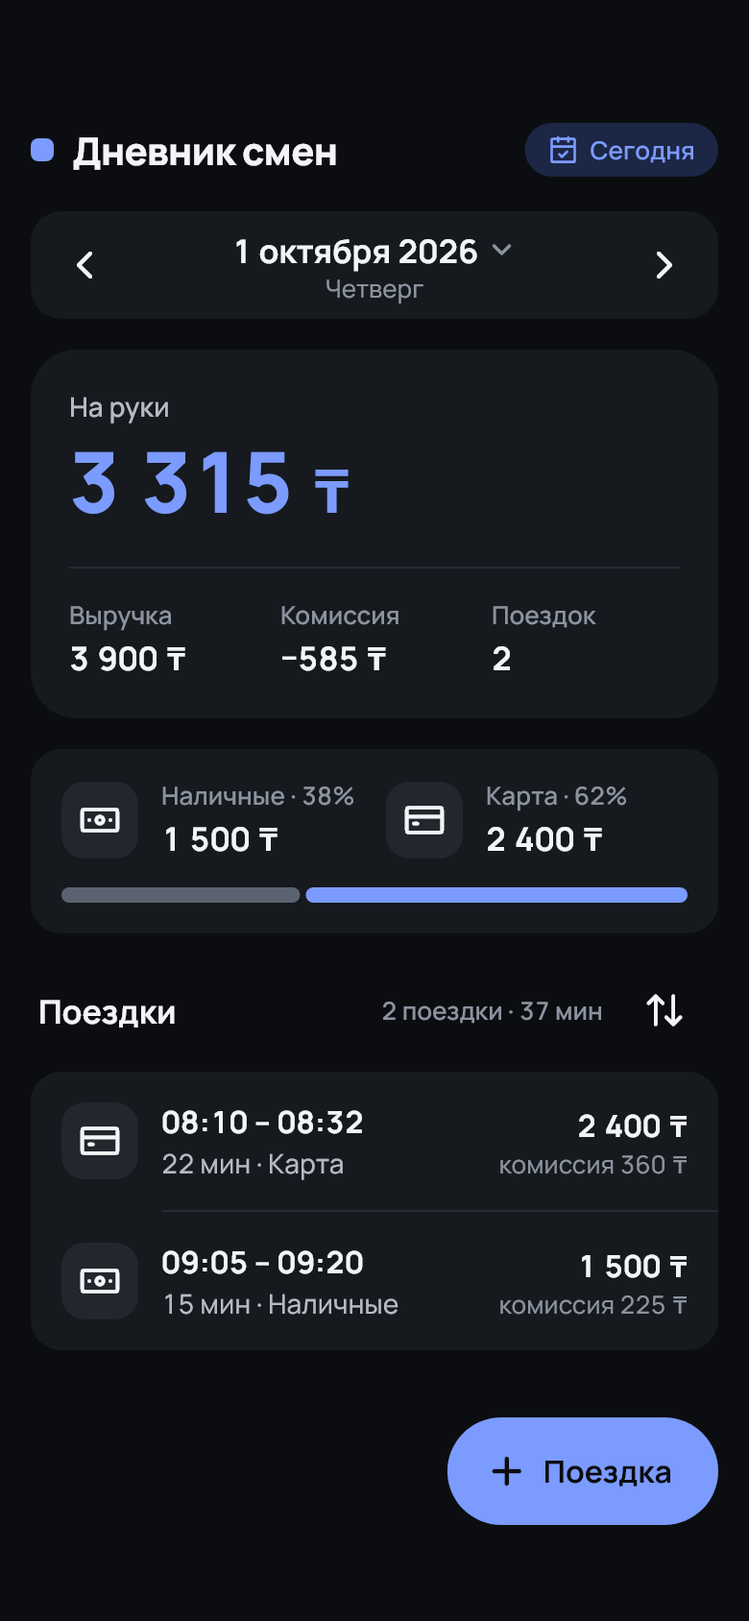
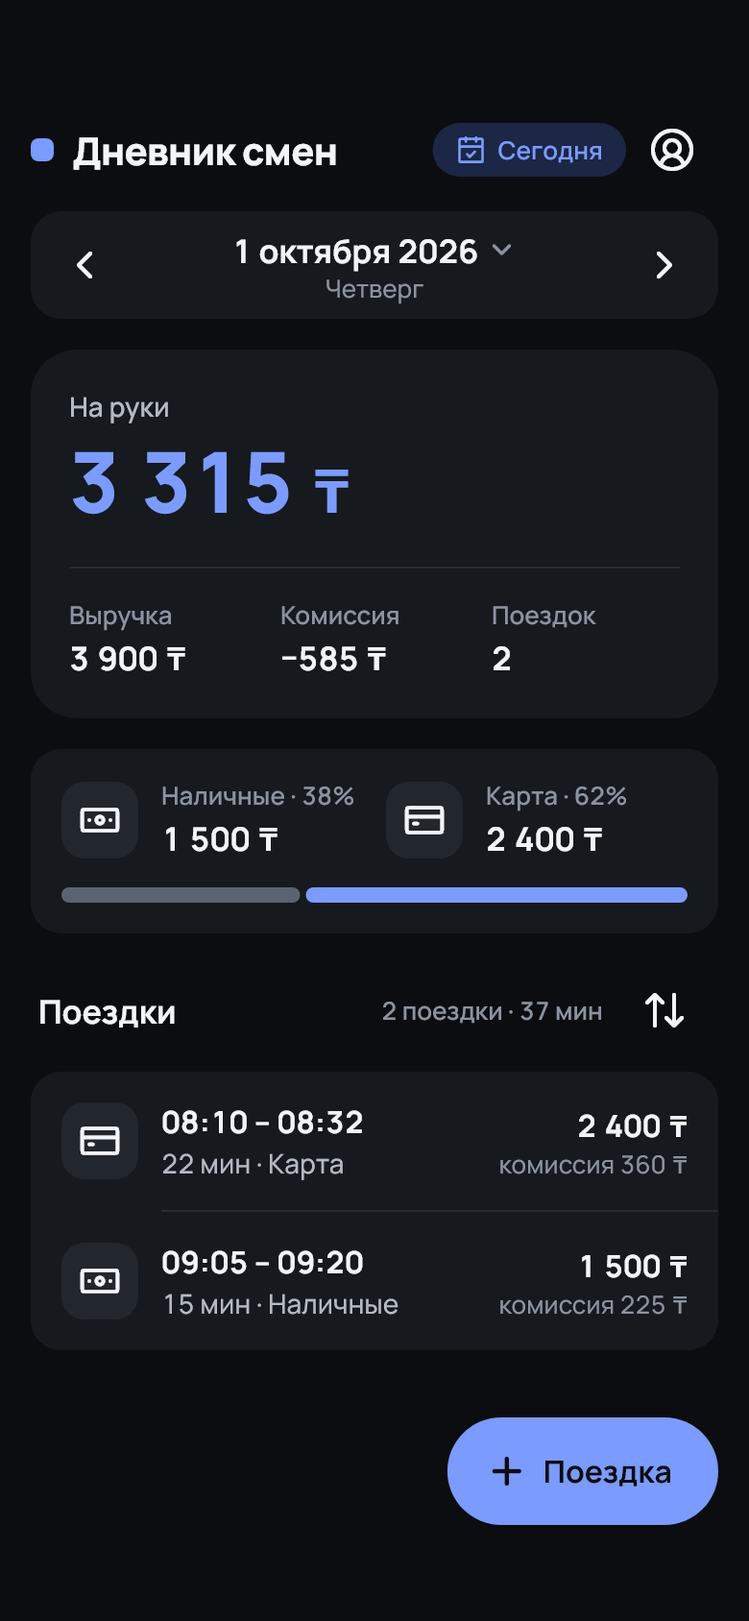
docs: v2.0 — README for accounts, languages, withdrawals and admin; stage 6 deploy check
Prod runs with AUTH_REQUIRED=true since 2026-10-12. DEPLOY_CHECK records the
backup, the deploy, the switch and every deployed check; PROD_AUDIT closes
F4, F6 and F8.

Changed region(s): [[0.5846, 0.0616, 0.9538, 0.1232]]

diff --git a/README.md b/README.md
@@ -2,16 +2,24 @@
 
 Мобильное приложение для водителя такси. Водитель записывает поездки: время, сумму, комиссию парка, способ оплаты. Приложение показывает итоги дня: сколько получено на руки, выручку, комиссию, число поездок, долю наличных и карты.
 
+С версии 2.0:
+- **вход по логину и паролю** и две роли: водитель и администратор;
+- **вывод денег:** водитель видит, сколько парк ему должен, и создаёт заявку на вывод;
+- **админка:** поездки всех водителей, заявки на вывод («Выплатить» / «Отклонить»), водители и их балансы;
+- **два языка:** русский и казахский, переключаются на экране входа и в меню.
+
 Состав репозитория:
 - `apps/mobile` — Flutter-приложение;
 - `packages/design_kit` — дизайн-кит;
 - `backend` — API на FastAPI с PostgreSQL, развёрнут на Railway.
 
-| День (светлая тема) | День (тёмная тема) | Новая поездка |
-|---|---|---|
-| <img src="docs/screenshots/day_light.png" width="200"> | <img src="docs/screenshots/day_dark.png" width="200"> | <img src="docs/screenshots/add_trip.png" width="200"> |
+| Вход | День | Вывод средств | Админка |
+|---|---|---|---|
+| <img src="docs/screenshots/login_ru.png" width="180"> | <img src="docs/screenshots/day_light.png" width="180"> | <img src="docs/screenshots/withdraw_ru.png" width="180"> | <img src="docs/screenshots/admin_trips_all_ru.png" width="180"> |
 
-**Скачать APK для Android:** [driver-diary.apk](https://github.com/alisherizmukhan/arqa-demo/releases/latest/download/driver-diary.apk) (все релизы — на странице [Releases](https://github.com/alisherizmukhan/arqa-demo/releases)). Приложение работает с развёрнутым API, ничего настраивать не нужно.
+**Скачать APK для Android:** [driver-diary.apk (v2.0.0)](https://github.com/alisherizmukhan/arqa-demo/releases/download/v2.0.0/driver-diary.apk) (все релизы — на странице [Releases](https://github.com/alisherizmukhan/arqa-demo/releases)). Приложение работает с развёрнутым API, ничего настраивать не нужно. Войдите демо-аккаунтом: `user_1` / `password_1` (водитель) или `admin` / `admin` (администратор), полный список — в разделе «Демо-аккаунты».
+
+> **Старые сборки больше не работают с сервером.** С версии 2.0 API требует вход, а APK v0.1.0 и код по тегу `v1.0` (сдача до этапа аккаунтов) входить не умеют: их запросы получают 401. Ставьте v2.0.0.
 
 ### Демо-видео
 
@@ -29,7 +37,7 @@ https://github.com/user-attachments/assets/44a51387-0f43-486c-87e7-9e07c062bf56
 
 ## Требования задания
 
-Эталонный день — **2026-10-01**: 2 поездки, выручка 3 900 ₸, комиссия 585 ₸, на руки 3 315 ₸, наличные 1 500 ₸, карта 2 400 ₸. Эти числа проверяются тестами бэкенда и клиента, а также на развёрнутом API.
+Эталонный день — **2026-10-01**: 2 поездки, выручка 3 900 ₸, комиссия 585 ₸, на руки 3 315 ₸, наличные 1 500 ₸, карта 2 400 ₸. Эти числа проверяются тестами бэкенда и клиента, а также на развёрнутом API. С аккаунтами это день `user_1`; у `user_2` в тот же день 4 800 / 720 / 4 080 ₸, у администратора по всем водителям — 8 700 / 1 305 / 7 395 ₸ (проверка развёрнутого API — в [`docs/DEPLOY_CHECK.md`](docs/DEPLOY_CHECK.md)).
 
 | Требование | Статус | Где реализовано | Какой тест доказывает |
 |---|---|---|---|
@@ -37,7 +45,10 @@ https://github.com/user-attachments/assets/44a51387-0f43-486c-87e7-9e07c062bf56
 | Клиент: итоги дня, список поездок, переключение дней | ✅ | `apps/mobile/lib/features/trips/presentation/screens/day_screen.dart`, `apps/mobile/lib/features/trips/domain/entities/daily_summary.dart`, `apps/mobile/lib/features/trips/presentation/providers/trips_providers.dart` | `apps/mobile/test/features/trips/domain/domain_test.dart` («reference case 2026-10-01»); `apps/mobile/test/features/trips/presentation/screens_test.dart` («renders the reference day»); `apps/mobile/test/features/trips/presentation/providers_test.dart` («each day is fetched once…») |
 | Создание поездки с валидацией (сумма > 0, конец позже начала) | ✅ | `apps/mobile/lib/features/trips/presentation/screens/add_trip_screen.dart`, `apps/mobile/lib/features/trips/domain/entities/trip_rules.dart`, `backend/app/domain/trip.py` | `apps/mobile/test/features/trips/presentation/trip_form_test.dart`; `backend/tests/unit/domain/test_trip.py::test_invalid_trip_is_rejected`; `backend/tests/integration/test_api_validation.py` |
 | Нет дублей при повторной отправке | ✅ | `backend/app/infrastructure/repository.py` (`INSERT … ON CONFLICT (id) DO NOTHING`), `backend/app/application/use_cases.py`; в клиенте `AddTripController` в `trips_providers.dart` и повторы в `add_trip_screen.dart` | `backend/tests/integration/test_idempotency.py` (повтор → 200, гонка параллельных POST → одна строка, другие данные → 409); `providers_test.dart` («retrying the same trip after a network error reuses its id»); `apps/mobile/test/features/trips/presentation/form_behaviour_test.dart` («resent with the same id») |
-| Тесты на итоги и на дубли | ✅ | `backend/tests/`, `apps/mobile/test/`, CI в `.github/workflows/ci.yml` | бэкенд: 194 теста; приложение: 220; дизайн-кит: 177. Все проходят в CI |
+| Аккаунты, роли, сессии | ✅ | `backend/app/application/auth.py`, `access.py`; в приложении `features/auth` | `backend/tests/integration/test_auth_api.py`, `test_scoping_api.py`; `apps/mobile/test/features/accounts/` |
+| Вывод денег без двойного списания | ✅ | `backend/app/application/withdrawals.py` (блокировка строки водителя), `features/withdrawals` в приложении | `backend/tests/integration/test_withdrawals_api.py` (параллельные заявки); повторы с тем же `id` — `accounts_behaviour_test.dart` |
+| Русский и казахский | ✅ | `apps/mobile/lib/l10n/app_ru.arb`, `app_kk.arb`, [`docs/L10N.md`](docs/L10N.md) | `test/core/l10n_format_test.dart`; матрица вёрстки на обоих языках; CI запрещает кириллицу в коде вне локализаций |
+| Тесты на итоги и на дубли | ✅ | `backend/tests/`, `apps/mobile/test/`, CI в `.github/workflows/ci.yml` | бэкенд: 372 теста; приложение: 531; дизайн-кит: 183 и витрина 150. Все проходят в CI |
 | README, деплой, скриншоты | ✅ | `README.md`, `backend/Dockerfile`, `.railway/railway.ts`, `docs/screenshots/` | `GET /health` на Railway отвечает 200; скриншоты рендерит `apps/mobile/test/screens/screenshots_test.dart` |
 
 ---
@@ -70,7 +81,7 @@ uv run python -m app             # http://127.0.0.1:8000/docs; при старт
 | `SEED_ADMIN_PASSWORD`, `SEED_USER1_PASSWORD`, `SEED_USER2_PASSWORD` | Пароли демо-аккаунтов (см. ниже) |
 | `CLIENT_IP_HEADER` | Заголовок, который ставит сам прокси перед API и перезаписывает присланное клиентом значение. На Railway это `x-real-ip`. По нему определяется IP клиента для лимита входов |
 | `TRUSTED_PROXY_HOPS` | Для прокси, которые дописывают клиента в `X-Forwarded-For`: сколько последних записей им принадлежит. Локально оба не заданы — берётся адрес соединения |
-| `AUTH_REQUIRED` | `true` (по умолчанию): нужен токен. `false`: запрос без токена работает от имени `user_1`, присланный токен всё равно проверяется. На проде сейчас `false`, пока приложение не умеет входить |
+| `AUTH_REQUIRED` | `true` (по умолчанию): нужен токен. `false`: запрос без токена работает от имени `user_1`, присланный токен всё равно проверяется (переходный режим, пока приложение не умело входить). На проде — `true` с 2026-10-12 |
 | `CORS_ORIGINS` | Разрешённые источники (по умолчанию `["*"]`) |
 
 #### Демо-аккаунты
@@ -107,7 +118,7 @@ $env:_ = "$env:APPDATA\npm\node_modules\@railway\cli\bin\railway.exe"; railway c
 
 ### Мобильное приложение
 
-Самый быстрый способ — установить [APK](https://github.com/alisherizmukhan/arqa-demo/releases/latest/download/driver-diary.apk) (см. ниже). Чтобы собрать из исходников:
+Самый быстрый способ — установить [APK](https://github.com/alisherizmukhan/arqa-demo/releases/download/v2.0.0/driver-diary.apk) (см. ниже). Чтобы собрать из исходников:
 
 ```bash
 flutter pub get          # из корня репозитория (pub workspace)
@@ -122,9 +133,9 @@ flutter run              # на первом найденном устройст
 
 **Установить готовый APK на телефон:**
 
-1. Скачайте [driver-diary.apk](https://github.com/alisherizmukhan/arqa-demo/releases/latest/download/driver-diary.apk) на телефон.
+1. Скачайте [driver-diary.apk](https://github.com/alisherizmukhan/arqa-demo/releases/download/v2.0.0/driver-diary.apk) на телефон.
 2. Откройте файл. Android попросит разрешить установку из этого источника (браузера или «Файлов») — разрешите.
-3. Нажмите «Установить», затем «Открыть». На экране появится «Дневник смен» с поездками за сегодня.
+3. Нажмите «Установить», затем «Открыть». Появится экран входа: введите `user_1` / `password_1`, и откроется день с поездками. Язык переключается кнопками «Русский» / «Қазақша» вверху.
 
 APK подписан отладочным ключом, поэтому Google Play Защита может показать предупреждение. Нажмите «Всё равно установить».
 
@@ -202,9 +213,11 @@ flutter analyze
 (cd packages/design_kit/example && flutter test)
 (cd apps/mobile && flutter test)
 
-# Контрактные тесты клиента против запущенного бэкенда
-(cd apps/mobile && LIVE_API_URL=http://127.0.0.1:8000 flutter test test/live)
+# Контрактные тесты клиента против запущенного бэкенда (с AUTH_REQUIRED=true — с логином)
+(cd apps/mobile && LIVE_API_URL=http://127.0.0.1:8000 LIVE_LOGIN=user_1 LIVE_PASSWORD=password_1 flutter test test/live)
 ```
+
+Перед пушем в `main` все шаги CI (включая проверки `grep`) запускаются одной командой: `tool/ci_local.sh`.
 
 ### Голдены: локально и в CI
 
@@ -234,46 +247,52 @@ tool/update_ci_goldens.sh packages/design_kit apps/mobile
 - API: https://api-production-6e8b.up.railway.app
 - Swagger UI: [`/docs`](https://api-production-6e8b.up.railway.app/docs)
 
+Без токена работают только `/health` и `/auth/login`, остальное отвечает 401.
+
 ```bash
 API=https://api-production-6e8b.up.railway.app
 
 curl $API/health
 # {"status":"ok","database":"ok"}
 
-curl "$API/summary?date=2026-10-01&tz=%2B05:00"
+TOKEN=$(curl -s -X POST $API/auth/login -H 'Content-Type: application/json' \
+  -d '{"login":"user_1","password":"password_1"}' | python -c "import json,sys;print(json.load(sys.stdin)['token'])")
+AUTH="Authorization: Bearer $TOKEN"
+
+curl -H "$AUTH" "$API/summary?date=2026-10-01&tz=%2B05:00"
 # {"date":"2026-10-01","tz":"+05:00","trips_count":2,"revenue":3900,"commission":585,"net":3315,"cash":1500,"card":2400}
 
-curl "$API/trips?date=2026-10-01&tz=%2B05:00"
-# {"date":"2026-10-01","tz":"+05:00","trips":[{"id":"t1",...},{"id":"t2",...}]}
+curl -H "$AUTH" "$API/trips?date=2026-10-01&tz=%2B05:00"
+# {"date":"2026-10-01","tz":"+05:00","trips":[{"id":"t1","driver_id":"…",...},{"id":"t2",...}]}
 ```
 
 В `tz` знак `+` кодируется как `%2B`. Без кодирования сервер тоже поймёт `+05:00`.
 
-Создание поездки. `id` — ключ идемпотентности, его генерирует клиент:
+Создание поездки (от имени водителя, с тем же `$AUTH`). `id` — ключ идемпотентности, его генерирует клиент. Это пишет в общий демо-API: для опытов лучше локальный бэкенд.
 
 ```bash
 TRIP='{"id":"readme-demo-1","start":"2026-01-15T10:00:00+05:00","end":"2026-01-15T10:25:00+05:00","amount":2500,"payment":"card","commission":375}'
 
 # Новая поездка -> 201
-curl -i -X POST $API/trips -H 'Content-Type: application/json' -d "$TRIP"
+curl -i -X POST $API/trips -H "$AUTH" -H 'Content-Type: application/json' -d "$TRIP"
 
 # Тот же запрос ещё раз -> 200, возвращается сохранённая поездка, дубля нет
-curl -i -X POST $API/trips -H 'Content-Type: application/json' -d "$TRIP"
+curl -i -X POST $API/trips -H "$AUTH" -H 'Content-Type: application/json' -d "$TRIP"
 
 # Тот же id, другая сумма -> 409
-curl -i -X POST $API/trips -H 'Content-Type: application/json' \
+curl -i -X POST $API/trips -H "$AUTH" -H 'Content-Type: application/json' \
   -d '{"id":"readme-demo-1","start":"2026-01-15T10:00:00+05:00","end":"2026-01-15T10:25:00+05:00","amount":3000,"payment":"card","commission":375}'
 # {"error":{"code":"trip_conflict","message":"trip 'readme-demo-1' already exists with a different payload","field":"id"}}
 
 # Невалидные данные -> 422
-curl -i -X POST $API/trips -H 'Content-Type: application/json' \
+curl -i -X POST $API/trips -H "$AUTH" -H 'Content-Type: application/json' \
   -d '{"id":"readme-demo-2","start":"2026-01-15T11:00:00+05:00","end":"2026-01-15T11:20:00+05:00","amount":0,"payment":"cash","commission":0}'
 # {"error":{"code":"invalid_amount","message":"amount must be a positive integer","field":"amount"}}
 ```
 
 Если `readme-demo-1` уже кто-то создал, первый запрос вернёт 200, а не 201. Для проверки 201 возьмите новый `id`.
 
-Все ошибки имеют один формат: `{"error": {"code", "message", "field"}}`. Клиент показывает свой русский текст по `code`, а не `message` сервера.
+Все ошибки имеют один формат: `{"error": {"code", "message", "field"}}`. Клиент показывает свой текст на выбранном языке по `code`, а не `message` сервера.
 
 ---
 
@@ -311,9 +330,23 @@ curl -s -X POST $API/auth/logout -H "Authorization: Bearer $TOKEN" -o /dev/null 
 
 Токен не истекает: сессия заканчивается при выходе или когда администратор её завершает. В базе хранится только sha256 от токена.
 
+В приложении: без сохранённого входа открывается экран входа. Водитель попадает на экран дня, администратор — в админку. Сессия заканчивается только выходом или когда администратор её сбрасывает; при любом ответе 401 приложение возвращается ко входу с сообщением «Сессия завершена. Войдите снова.». Токен хранится в защищённом хранилище (Keychain / Keystore) и не пишется в логи.
+
+## Язык
+
+- Русский и казахский. Переключатель «Русский» / «Қазақша» — на экране входа (справа вверху) и в меню («Язык»). Язык меняется сразу, без перезапуска, и запоминается.
+- Пока язык не выбран, берётся язык телефона, если это русский или казахский, иначе русский.
+- Даты — в формате выбранного языка: «1 октября 2026» / «2026 ж. 1 қазан»; формы множественного числа по правилам языка. Деньги одинаковые: `3 315 ₸`.
+- Казахские тексты — машинный перевод, все они перечислены в [`docs/L10N.md`](docs/L10N.md) с пометкой «нужна проверка носителем».
+- Имена водителей и причины отказа — данные с сервера, они не переводятся.
+
 ## Вывод денег
 
-Доступно к выводу = сумма оплат картой − комиссия по всем поездкам − выводы в статусе «в обработке» или «выплачено». Наличные остаются у водителя, поэтому комиссия за них тоже списывается с безнала. Сумма может быть нулевой или отрицательной.
+**Доступно к выводу = Σ оплат картой − Σ комиссий по всем поездкам − Σ выводов «в обработке» и «выплачено».**
+
+Деньги за поездки по карте получает парк, наличные остаются у водителя. Комиссия парка начисляется со всех поездок, поэтому комиссия за наличные поездки тоже списывается с безнала. Сумма может быть нулевой или отрицательной — тогда выводить нечего. Отклонённая заявка деньги возвращает.
+
+В приложении: «Меню» → «Вывод средств». Экран показывает баланс по формуле выше, поле суммы (кнопка «Всё» подставляет всю доступную сумму) и историю заявок со статусами «В обработке», «Выплачено», «Отклонено» (с причиной). Заявка получает `id` в момент нажатия «Вывести». При обрыве связи она повторяется с тем же `id` (через 2, 4, 8 и 30 с и по кнопке «Повторить»), поэтому деньги не уйдут дважды. Если изменить сумму, следующая отправка получит новый `id`.
 
 ```bash
 curl -s "$API/balance" -H "Authorization: Bearer $TOKEN"
@@ -335,6 +368,14 @@ curl -s -X POST $API/withdrawals -H "Authorization: Bearer $TOKEN" \
 
 Администратор: `POST /admin/withdrawals/{id}/approve` (выплачено) и `POST /admin/withdrawals/{id}/reject` с `{"reason": "…"}` (отклонено, деньги снова доступны). Повтор того же решения возвращает текущее состояние, другое решение — 409 `withdrawal_already_decided`.
 
+## Админка
+
+Администратор после входа попадает в «Админку» с тремя вкладками:
+
+- **Поездки** — тот же экран дня, но для всех водителей сразу или для одного (фильтр-чипы). В режиме «Все водители» под каждой поездкой подписан водитель. Поездки администратор не создаёт.
+- **Выводы** — заявки «В обработке» или все. У заявки в обработке кнопки «Выплатить» и «Отклонить». Отклонить можно только с причиной: её увидит водитель.
+- **Водители** — водители и их балансы. По нажатию: «Заблокировать» / «Разблокировать» и «Сбросить все сессии» (водитель выйдет на всех устройствах). Демо-аккаунты защищены от блокировки и сброса.
+
 Двойное списание исключено. Заявка создаётся в одной транзакции под блокировкой строки водителя: два одновременных запроса выполняются по очереди. Тест проверяет 12 одновременных заявок по 500 ₸ при балансе 1 815 ₸: проходят ровно 3.
 
 ## Что сделано
@@ -342,7 +383,9 @@ curl -s -X POST $API/withdrawals -H "Authorization: Bearer $TOKEN" \
 - **Архитектура бэкенда.** Слои `domain` → `application` → `api` / `infrastructure`.
   - Доменные сущности сами проверяют правила, поэтому невалидная поездка не может существовать.
   - Каждое правило продублировано в базе как `CHECK`.
-- **Архитектура приложения.** Структура по фичам (`features/trips/{domain,data,presentation}`) и Riverpod. Ошибки возвращаются как `Result<T>` с запечатанным `Failure`.
+- **Архитектура приложения.** Структура по фичам (`features/{trips,auth,withdrawals,admin,menu}/{domain,data,presentation}`) и Riverpod. Ошибки возвращаются как `Result<T>` с запечатанным `Failure`. Кеш данных привязан к сессии: после выхода и входа другим аккаунтом чужие данные не показываются.
+- **Аккаунты.** Непрозрачные токены (в базе только sha256), argon2id для паролей, лимит неудачных входов по паре «логин + IP клиента», роли проверяются в слое приложения бэкенда.
+- **Локализация.** gen-l10n, ICU-плюралы, даты через `intl`. В дизайн-ките нет ни одного своего текста — все подписи передаются параметрами.
 - **Дизайн-кит.** Цвета, типографика, отступы и компоненты живут только в `packages/design_kit`.
 - **Идемпотентность на уровне базы.**
   - `INSERT … ON CONFLICT (id) DO NOTHING`, затем сохранённая поездка читается и сравнивается с запросом.
@@ -362,15 +405,15 @@ curl -s -X POST $API/withdrawals -H "Authorization: Bearer $TOKEN" \
   - Выбор даты и времени — колесо в стиле iOS на обеих платформах.
   - Сортировка поездок: по времени (по умолчанию — сначала ранние) или по сумме.
   - После сохранения список прокручивается к новой поездке и подсвечивает её.
-- **Голдены и скриншоты.** Голдены кита и экрана дня есть в двух темах. Скриншоты всех состояний рендерятся тестами.
+- **Голдены и скриншоты.** Голдены кита, экрана дня, входа, меню, вывода и админки — в двух темах, новые экраны на двух языках. Скриншоты всех состояний рендерятся тестами; генератор падает, если два разных состояния дают одинаковую картинку (так нашлись сценарии, которые не дошли до своего состояния).
 - **Доступность.**
   - Цели нажатия не меньше 48 dp, у всех элементов есть подписи для скринридера.
   - Контраст по WCAG AA в обеих темах.
-  - Матрица вёрстки: 360 и 390 dp, масштаб текста 1.0 и 1.3. Тест падает при любом переполнении или обрезанном тексте.
+  - Матрица вёрстки: 360 и 390 dp, масштаб текста 1.0 и 1.3, русский и казахский. Тест падает при любом переполнении или обрезанном тексте.
 - **CI** (`.github/workflows/ci.yml`) — три задачи:
   - бэкенд: ruff, mypy, pytest с настоящим Postgres, покрытие ≥ 95 %;
   - дизайн-кит: analyze, формат, тесты;
-  - приложение: актуальность кодогенерации, запрет «сырых» цветов и стилей, analyze, формат, тесты.
+  - приложение: актуальность кодогенерации, запрет «сырых» цветов и стилей, запрет кириллицы вне локализаций, analyze, формат, тесты, скриншоты всех состояний.
 
 ---
 
@@ -390,10 +433,11 @@ curl -s -X POST $API/withdrawals -H "Authorization: Bearer $TOKEN" \
 
 - **«Сегодня» не обновляется после полуночи.** Если приложение открыто через полночь, вчерашний день остаётся «Сегодня» до перерисовки экрана или перезапуска.
 - **Дата поездки — это выбранный день.** В форме нет поля даты. Чтобы добавить поездку за другой день, нужно сначала переключить день на главном экране.
-- **Нет аккаунтов.** API открыт, список поездок один на всех. Аккаунты, роли и вывод денег — следующий этап.
 - **Поездку нельзя изменить или удалить.**
 - **Имена водителей и причины отказа в выводе — данные с сервера, они не переводятся.** Интерфейс переключается между русским и казахским, а эти строки показываются так, как сохранены.
-- **Неотправленная поездка живёт, пока открыта форма.** Офлайн-хранилища нет.
+- **Неотправленная поездка или заявка на вывод живёт, пока открыт экран.** Офлайн-хранилища нет.
+- **Баланс водителя в админке — отдельный запрос на каждого водителя.** Для парка из нескольких водителей это нормально; для большого парка понадобится сводный эндпоинт.
+- **Демо-режим.** На проде включены демо-данные: демо-аккаунты нельзя заблокировать, а их пароли общие. Для настоящего парка — свои пароли через переменные окружения и `SEED_ON_STARTUP=false`.
 - **Кеш дня может отставать до 5 минут,** если поездки добавлены с другого устройства. Свайп вниз обновляет день.
 
 ---
@@ -408,8 +452,24 @@ curl -s -X POST $API/withdrawals -H "Authorization: Bearer $TOKEN" \
 
 Рендерятся тестами приложения (390×844 @2x, настоящие шрифты).
 
+**Русский**
+
+| Вход | День | Меню | Вывод средств | Админка: поездки | Админка: выводы |
+|---|---|---|---|---|---|
+| <img src="docs/screenshots/login_ru.png" width="140"> | <img src="docs/screenshots/day_header_ru.png" width="140"> | <img src="docs/screenshots/menu_driver_ru.png" width="140"> | <img src="docs/screenshots/withdraw_ru.png" width="140"> | <img src="docs/screenshots/admin_trips_all_ru.png" width="140"> | <img src="docs/screenshots/admin_withdrawals_ru.png" width="140"> |
+
+**Қазақша**
+
+| Кіру | Күн | Мәзір | Қаражат шығару | Әкімші: сапарлар | Әкімші: шығарулар |
+|---|---|---|---|---|---|
+| <img src="docs/screenshots/login_kk.png" width="140"> | <img src="docs/screenshots/day_header_kk.png" width="140"> | <img src="docs/screenshots/menu_driver_kk.png" width="140"> | <img src="docs/screenshots/withdraw_kk.png" width="140"> | <img src="docs/screenshots/admin_trips_all_kk.png" width="140"> | <img src="docs/screenshots/admin_withdrawals_kk.png" width="140"> |
+
+**Поездки**
+
 | День | День, тёмная тема | Новая поездка | Нет связи | Конфликт 409 |
 |---|---|---|---|---|
-| <img src="docs/screenshots/day_light.png" width="160"> | <img src="docs/screenshots/day_dark.png" width="160"> | <img src="docs/screenshots/add_trip.png" width="160"> | <img src="docs/screenshots/add_trip_offline.png" width="160"> | <img src="docs/screenshots/add_trip_409.png" width="160"> |
+| <img src="docs/screenshots/day_light.png" width="140"> | <img src="docs/screenshots/day_dark.png" width="140"> | <img src="docs/screenshots/add_trip.png" width="140"> | <img src="docs/screenshots/add_trip_offline.png" width="140"> | <img src="docs/screenshots/add_trip_409.png" width="140"> |
+
+Все состояния новых экранов на обоих языках, светлые и тёмные, — в [`docs/design/accounts_app/`](docs/design/accounts_app).
 
 Сравнение с макетами — в `docs/design/audit/` и [`docs/DESIGN_AUDIT.md`](docs/DESIGN_AUDIT.md).

diff --git a/docs/DEPLOY_CHECK.md b/docs/DEPLOY_CHECK.md
@@ -172,3 +172,100 @@ Deployed from `main` at `547c279` (CI green), `AUTH_REQUIRED=false`. Deployment 
 | `GET /health` | 200 |
 | `GET /summary?date=2026-10-01` without a token | 3 900 / 585 / 3 315, cash 1 500 / card 2 400 — exact |
 | `POST /trips` with a body that is not UTF-8 | 422 `{"error":{"code":"invalid_json",…}}` (was 400 `http_error`) |
+
+## Stage 6 — accounts go live (2026-10-12)
+
+### Backup
+
+- `C:\Users\alish\Documents\arqa-backups\prod-2026-10-12-before-stage6.sql` (29 552 bytes, outside the repository), taken with `pg_dump` inside the Postgres container as before.
+- Restored into a throwaway PostgreSQL 18: revision `0004`, 133 trips (Σ 401 300 ₸), 0 withdrawals, users `admin`, `user_1`, `user_2` (all active), 8 sessions.
+
+### Release build
+
[1 lines of base64/hex data omitted]
+- The on-device check of the APK against prod before the switch was skipped at the user's request. The same app code is covered by the widget, golden and layout tests (531) and its API contract by the checks below.
+
+### Deploy and switch
+
+| Time (UTC) | Step | Result |
+|---|---|---|
+| 06:48 | `railway up --service api --ci` from `main` (`f0731c6`, `driver_id` in `GET /trips`), `AUTH_REQUIRED=false` | deployment `117d8bad-fa36-4e2b-8e97-440bcc990728` SUCCESS, healthcheck passed |
+| 06:48 | before the switch: `/health`, `GET /trips` without a token (old mode), login of `user_1`, `user_2`, `admin` | 200; trips carry `driver_id`; all three logins 200 with the right roles |
+| 06:49:24 | `railway variables --service api --set AUTH_REQUIRED=true` (the variable change redeploys) | deployment `695eb82d-41fe-44d6-aee5-28c8f4bf8c52` SUCCESS |
+| 06:49:43 | `GET /summary` without a token | **401** `unauthorized` — the switch took 20 s |
+
+Rollback plan (not needed): `railway variables --service api --set AUTH_REQUIRED=false` restores anonymous access as `user_1` within ~20 s.
+
+### Verification against https://api-production-6e8b.up.railway.app
+
+Run by a script (`curl` with the DNS name pinned); tokens were kept in shell variables and never printed. Writes only as `user_2`. Every session opened by the run was logged out at the end.
+
+| Check | Result | |
+|---|---|---|
+| GET /health | 200 {"status":"ok","database":"ok"} | ✅ |
+| GET /trips?date=2026-10-01&tz=%2B05:00 without token | 401 {"error":{"code":"unauthorized","message":"a valid beare | ✅ |
+| GET /summary?date=2026-10-01&tz=%2B05:00 without token | 401 {"error":{"code":"unauthorized","message":"a valid beare | ✅ |
+| GET /balance without token | 401 {"error":{"code":"unauthorized","message":"a valid beare | ✅ |
+| GET /withdrawals without token | 401 {"error":{"code":"unauthorized","message":"a valid beare | ✅ |
+| GET /auth/me without token | 401 {"error":{"code":"unauthorized","message":"a valid beare | ✅ |
+| GET /admin/users without token | 401 {"error":{"code":"unauthorized","message":"a valid beare | ✅ |
+| GET /trips with an unknown token | 401 {"error":{"code":"unauthorized","message":"the session i | ✅ |
+| login user_1 → /auth/me | 200 user_1 driver Водитель 1 | ✅ |
+| login user_2 → /auth/me | 200 user_2 driver Водитель 2 | ✅ |
+| login admin → /auth/me | 200 admin admin Администратор | ✅ |
+| wrong password | 401 {"error":{"code":"invalid_credentials","message":"invalid login or | ✅ |
+| user_1 summary | 2 trips, 3900/585/3315, cash 1500 card 2400 | ✅ |
+| user_2 summary | 2 trips, 4800/720/4080, cash 1800 card 3000 | ✅ |
+| admin summary, all drivers | 4 trips, 8700/1305/7395, cash 3300 card 5400 | ✅ |
+| admin summary, driver_id=user_2 | 2 trips, 4800/720/4080, cash 1800 card 3000 | ✅ |
+| admin trips carry driver_id | t1:u1 t2:u1 u2-t1:u2 u2-t2:u2 | ✅ |
+| user_1 sees only own trips | t1 t2 | ✅ |
+| user_2 sees only own trips | u2-t1 u2-t2 | ✅ |
+| driver → GET /admin/users | 403 {"error":{"code":"forbidden","message":"admin | ✅ |
+| driver → another driver's trips | 403 {"error":{"code":"forbidden","message":"driver | ✅ |
+| admin → POST /trips | 403 {"error":{"code":"forbidden","message":"only d | ✅ |
+| new trip | 201 | ✅ |
+| same id, same payload | 200 | ✅ |
+| same id, other amount | 409 {"error":{"code":"trip_conflict","message":"trip 'stage6 | ✅ |
+| same id from user_1 | 409 existing_leaked=0 | ✅ |
+| user_2 balance before | 2280 | ✅ |
+| W1 1000 new | 201 pending | ✅ |
+| W1 again, same amount | 200 | ✅ |
+| W1 again, other amount | 409 {"error":{"code":"withdrawal_conflict","message":"withdrawal 0e520 | ✅ |
+| 5000 > available | 422 {"error":{"code":"insufficient_funds","message":"amount is more th | ✅ |
+| amount 0 | 422 | ✅ |
+| W2 500 new | 201 | ✅ |
+| balance after W1+W2 pending | 780 | ✅ |
+| admin → POST /withdrawals | 403 | ✅ |
+| driver → approve | 403 | ✅ |
+| approve W1 | 200 paid | ✅ |
+| approve W1 again | 200 paid | ✅ |
+| balance after approve (paid stays spent) | 780 | ✅ |
+| reject W2 with a Cyrillic reason | 200 rejected Проверка деплоя | ✅ |
+| reject W2 again | 200 | ✅ |
+| reject W1 (already paid) | 409 {"error":{"code":"withdrawal_already_decided","message":"withdrawal 0e520a64 | ✅ |
+| balance after reject (money back) | 1280 | ✅ |
+| user_1 sees none of user_2's withdrawals | 0 | ✅ |
+| admin sees user_2 balance | 1280 | ✅ |
+| block user_2 | 409 {"error":{"code":"demo_account_protected","message":"'user_2' is a | ✅ |
+| revoke user_2 sessions | 409 {"error":{"code":"demo_account_protected","message":"'user_2' is a | ✅ |
+| user_2 token still works | 200 | ✅ |
+| fresh session works | 200 | ✅ |
+| logout | 204 | ✅ |
+| same token after logout | 401 {"error":{"code":"unauthorized","message":"the session i | ✅ |
+| user_1's other session unaffected | 200 | ✅ |
+
+The first run's three `login … → /auth/me` lines failed in the **script**, not on the server: the pattern expected raw JSON but was compared with the parsed «200 user_1 driver». They were re-run with the right pattern (the rows above); every value was already correct.
+
+Also checked: `user_1` `GET /balance` = **200 327 ₸** (card 258 450 − commission 58 123, no withdrawals), as computed in stage 3 (PROD_AUDIT F6).
+
+### Test data left on prod (cleanup pending «delete»)
+
+| Kind | id | Owner | Details |
+|---|---|---|---|
+| trip | `stage6-check-1791787840` | user_2 | 2026-10-11 10:00–10:20 +05:00, 1 000 ₸, cash, commission 0 (no effect on the balance) |
+| withdrawal | `0e520a64-45fb-4501-ad90-e8940f98c602` | user_2 | 1 000 ₸, paid |
+| withdrawal | `f79636d1-c005-4362-9c4c-7d2845d0ae17` | user_2 | 500 ₸, rejected «Проверка деплоя» |
+
+- Backup before the cleanup: `C:\Users\alish\Documents\arqa-backups\prod-2026-10-12-before-stage6-cleanup.sql` (31 665 bytes), restored into a throwaway PostgreSQL 18: revision `0004`, 134 trips, 2 withdrawals.
+- These are the only rows the run added (prod: 134 trips, 2 withdrawals). user_2's balance is 1 280 ₸ until the paid withdrawal is removed; after the cleanup it returns to 2 280 ₸.

diff --git a/docs/PROD_AUDIT.md b/docs/PROD_AUDIT.md
@@ -71,8 +71,10 @@ Stage 1 therefore needs **no new Postgres** — only verification of the link (a
 - [x] F1 — one named timezone constant in the app (`AppConfig` default from `DriverZone.kazakhstan`). *(stage 1, `test/core/time_test.dart`)*
 - [x] F2 — production fails fast without `DATABASE_URL` (no localhost default outside local/test). *(stage 1: `APP_ENV=production` in the image; `tests/unit/test_settings.py`)*
 - [x] F3 — CORS decision recorded in DECISIONS.md and the deployed value set accordingly. *(kept `*`: bearer tokens, no cookies)*
-- [ ] F4 — Railway config-as-code migration or a documented decision before 2026-12-01.
+- [x] F4 — Railway config-as-code migration or a documented decision before 2026-12-01. *(stage 1: `.railway/railway.ts` imported from the live project, `railway.json` removed)*
 - [x] F5 — user_2 seed trips use ids that don't collide with `data/trips.json`. *(`u2-t1`, `u2-t2`)*
-- [ ] F6 — seed/backfill and the expected balances agree (decision pending).
+- [x] F6 — seed/backfill and the expected balances agree. *(option a: the demo history stays with user_1; balance tests run on a clean seed — user_1 1 815 ₸, user_2 2 280 ₸; on prod user_1 `GET /balance` = **200 327 ₸** = 258 450 − 58 123, checked 2026-10-12)*
 - [x] F7 — one seed switch, documented in README. *(`SEED_ON_STARTUP`)*
-- [ ] F8 — auth + role scoping on every endpoint, tested and checked on the deployed URL.
+- [x] F8 — auth + role scoping on every endpoint, tested and checked on the deployed URL. *(stage 6: `AUTH_REQUIRED=true` on prod since 2026-10-12; every check in `DEPLOY_CHECK.md`, stage 6)*
+
+All eight findings are closed (2026-10-12, stage 6).
